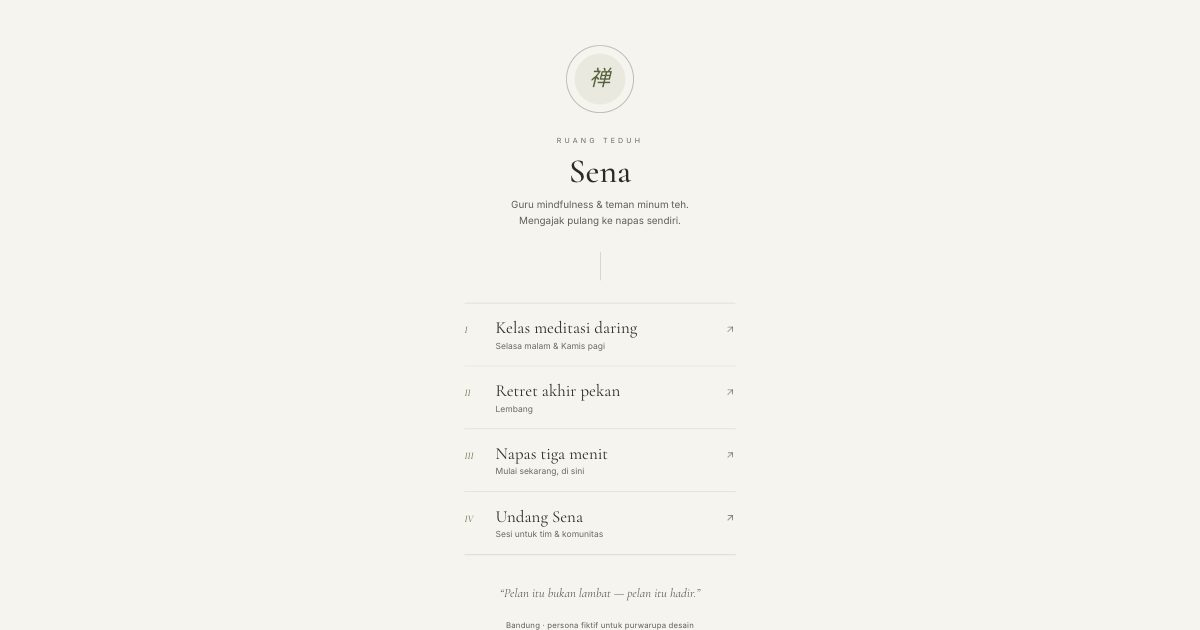
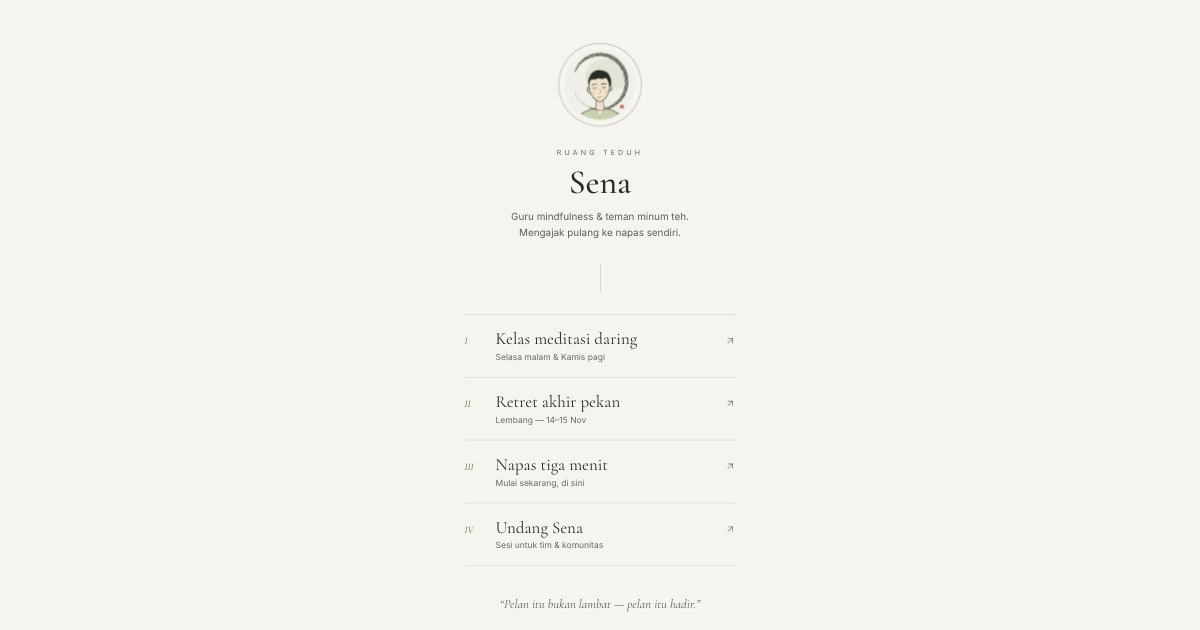
Tambah potret tinta Sena dan foto teh serta retret
- Aksara 禅 di lingkaran napas beranda diganti potret tinta Sena dalam ensō
  sapuan kuas (persona fiktif, ilustrasi asli)
- /kelas kini bergambar foto CC0 tangan menuang teh dan rumah kebun di bukit
  berkabut untuk retret, bernada teduh; sumber di public/images/SUMBER.md
- Gambar statis lewat scripts/static-images.mjs dengan <img srcset>; og.jpg
  diperbarui

diff --git a/app/kelas/page.js b/app/kelas/page.js
@@ -1,6 +1,7 @@
 import { KELAS, PAKET, RETRET, SITE, rp } from '@/lib/zen';
 import { hariIniWIB } from '@/lib/waktu';
 import Kembali from '../components/Kembali';
+import Gambar from '../components/Gambar';
 import FormDaftar from '../components/FormDaftar';
 import TanggalRetret from '../components/TanggalRetret';
 
@@ -17,6 +18,7 @@ export default function Kelas() {
         <Kembali />
         <h1 className="rise mt-10 font-serif text-5xl">Kelas</h1>
         <p className="rise mt-3 leading-relaxed text-sumi/75" style={{ animationDelay: '0.1s' }}>Tidak perlu bisa duduk bersila. Cukup datang, kamera boleh mati.</p>
+        <Gambar src="/images/teh.webp" alt="Tangan menuang teh dari teko putih ke cangkir kecil di atas nampan kayu" width={1200} height={800} asli={1200} priority sizes="(min-width: 640px) 576px, calc(100vw - 48px)" className="mt-8 aspect-[3/2] w-full rounded-sm object-cover" />
 
         <ol className="mt-10">
           {KELAS.map((k, i) => (
@@ -35,7 +37,8 @@ export default function Kelas() {
         <section id="retret" aria-labelledby="retret-h" className="mt-16 scroll-mt-8">
           <h2 id="retret-h" className="font-serif text-4xl">Retret akhir pekan</h2>
           <p className="mt-2 text-sm uppercase tracking-[0.2em] text-sumi/70"><TanggalRetret hari={hariIniWIB()} /></p>
-          <p className="mt-3 leading-relaxed text-sumi/80">{RETRET.tempat}. Dua hari tanpa sinyal kerja, dua belas orang, satu teko teh yang tidak pernah kosong.</p>
+          <Gambar src="/images/retret-lembang.webp" alt="Rumah kebun di antara pohon pisang dan rimbun hijau, dengan bukit berkabut di belakangnya" width={1200} height={800} asli={1200} sizes="(min-width: 640px) 576px, calc(100vw - 48px)" className="mt-5 aspect-[3/2] w-full rounded-sm object-cover" />
+          <p className="mt-5 leading-relaxed text-sumi/80">{RETRET.tempat}. Dua hari tanpa sinyal kerja, dua belas orang, satu teko teh yang tidak pernah kosong.</p>
           <ol className="mt-6 border-l border-sumi/20 pl-6">
             {RETRET.acara.map(([w, a]) => (
               <li key={w} className="relative pb-5 last:pb-0">

diff --git a/app/components/Gambar.jsx b/app/components/Gambar.jsx
@@ -1,0 +1,33 @@
+import manifest from '@/image-manifest.json';
+
+// Gambar statis tanpa JavaScript klien: <img> biasa dengan srcset varian WebP buatan
+// scripts/static-images.mjs (peta hash di image-manifest.json, sama seperti image-loader.js).
+// width/height = ukuran tampil (px CSS); tanpa `sizes` dipakai deskriptor 1x/2x,
+// dengan `sizes` dipakai deskriptor lebar sampai `asli` (lebar berkas sumber).
+const LEBAR = [64, 128, 256, 384, 640, 828, 1080, 1280, 1920];
+const varian = (src, w) => {
+  const hash = manifest[src];
+  return hash ? `/_img${src.replace(/\.(png|jpe?g|webp)$/i, '')}.${hash}-${w}.webp` : src;
+};
+const naik = (w) => LEBAR.find((x) => x >= w) ?? LEBAR[LEBAR.length - 1];
+
+export default function Gambar({ src, alt, width, height, sizes, asli = 1920, priority = false, ...rest }) {
+  const srcSet = sizes
+    ? LEBAR.filter((w) => w <= naik(asli)).map((w) => `${varian(src, w)} ${w}w`).join(', ')
+    : `${varian(src, naik(width))} 1x, ${varian(src, naik(width * 2))} 2x`;
+  return (
+    // eslint-disable-next-line @next/next/no-img-element
+    <img
+      src={varian(src, naik(sizes ? Math.min(asli, 1080) : width * 2))}
+      srcSet={srcSet}
+      sizes={sizes}
+      alt={alt}
+      width={width}
+      height={height}
+      loading={priority ? 'eager' : 'lazy'}
+      fetchPriority={priority ? 'high' : undefined}
+      decoding="async"
+      {...rest}
+    />
+  );
+}

diff --git a/app/page.js b/app/page.js
@@ -1,4 +1,5 @@
 import Link from 'next/link';
+import Gambar from './components/Gambar';
 import { ArrowUpRight } from 'lucide-react';
 import { LINKS } from '@/lib/zen';
 import { hariIniWIB } from '@/lib/waktu';
@@ -9,9 +10,9 @@ export default function Home() {
   return (
     <main className="flex min-h-screen items-center justify-center px-6 py-16">
       <div className="w-full max-w-sm text-center">
-        <div className="rise relative mx-auto h-24 w-24" aria-hidden="true">
-          <span className="breathe absolute inset-0 rounded-full border border-sumi/40" />
-          <span className="absolute inset-3 grid place-items-center rounded-full bg-matcha/10 font-serif text-3xl italic text-matcha-ink">禅</span>
+        <div className="rise relative mx-auto h-28 w-28">
+          <span className="breathe absolute inset-0 rounded-full border border-sumi/40" aria-hidden="true" />
+          <Gambar src="/images/sena.webp" alt="Potret tinta Sena dengan mata terpejam di dalam lingkaran ensō" width={100} height={100} loading="eager" className="absolute inset-1.5 h-[100px] w-[100px] rounded-full" />
         </div>
 
         <header className="rise mt-8" style={{ animationDelay: '0.08s' }}>

diff --git a/image-loader.js b/image-loader.js
@@ -1,0 +1,15 @@
+// Loader next/image untuk gambar statis: varian WebP di public/_img/ buatan skrip static-images (lihat
+// image-manifest.json). Tidak memakai Image Optimization Vercel, jadi tidak terikat kuota bulanan.
+// Lebar yang diminta selalu salah satu dari deviceSizes/imageSizes di next.config (= WIDTHS di bawah).
+// Gambar di luar manifest (SVG, GIF, URL luar, impor statis) dikembalikan apa adanya.
+import manifest from './image-manifest.json'
+
+const WIDTHS = [64,128,256,384,640,828,1080,1280,1920]
+
+export default function staticImageLoader({ src, width }) {
+  const hash = manifest[src]
+  if (!hash) return src
+  const w = WIDTHS.find((x) => x >= width) ?? WIDTHS[WIDTHS.length - 1]
+  const stem = src.slice("".length).replace(/\.(png|jpe?g|webp)$/i, '')
+  return `/_img${stem}.${hash}-${w}.webp`
+}

diff --git a/public/images/SUMBER.md b/public/images/SUMBER.md
@@ -1,0 +1,10 @@
+# Sumber gambar
+
+| Berkas | Isi / judul | Pembuat | Sumber | Lisensi |
+| --- | --- | --- | --- | --- |
+| sena.webp | Potret tinta Sena dalam ensō (persona fiktif) | Ilustrasi asli PintuWeb | — | Milik PintuWeb |
+| retret-lembang.webp | A rural scene with a weathered house surrounded by lush greenery, banana trees, and flowering bushes under a misty, overcast sky and fog-covered hills | Roman Khadka | https://wordpress.org/photos/photo/2546a13224/ (WordPress Photo Directory) | CC0 |
+| teh.webp | Hands Pouring | Burst | https://stocksnap.io/photo/hands-pouring-H1SR2TNSL9 (StockSnap) | CC0 |
+
+Foto CC0 tidak wajib atribusi; dicatat untuk keterlacakan. Keduanya dipotong 3:2 dan diberi nada teduh ringan.
+Tempat retret di demo fiktif: foto hanya ilustrasi suasana, bukan lokasi sungguhan di Lembang.
